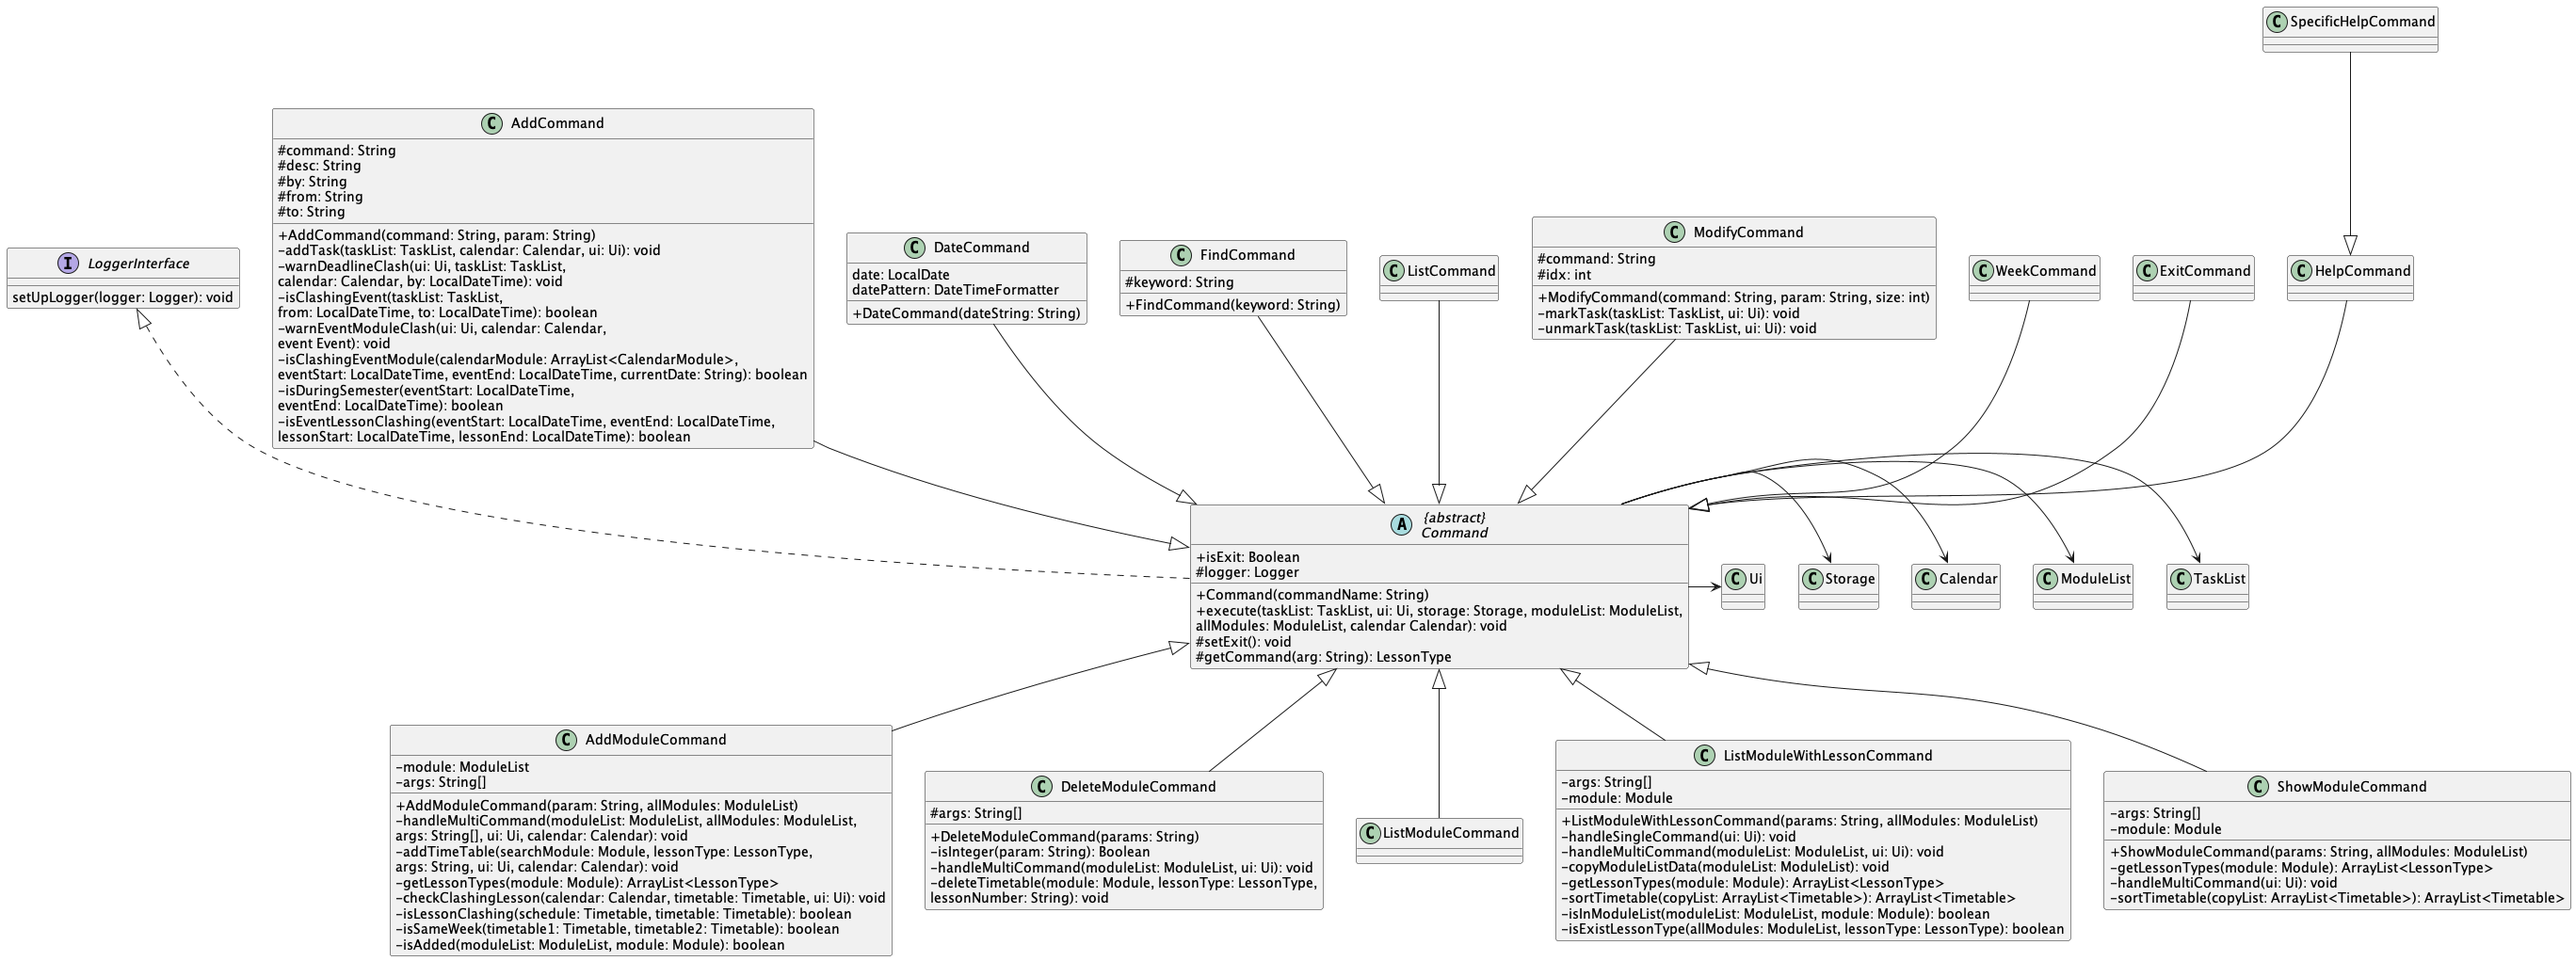
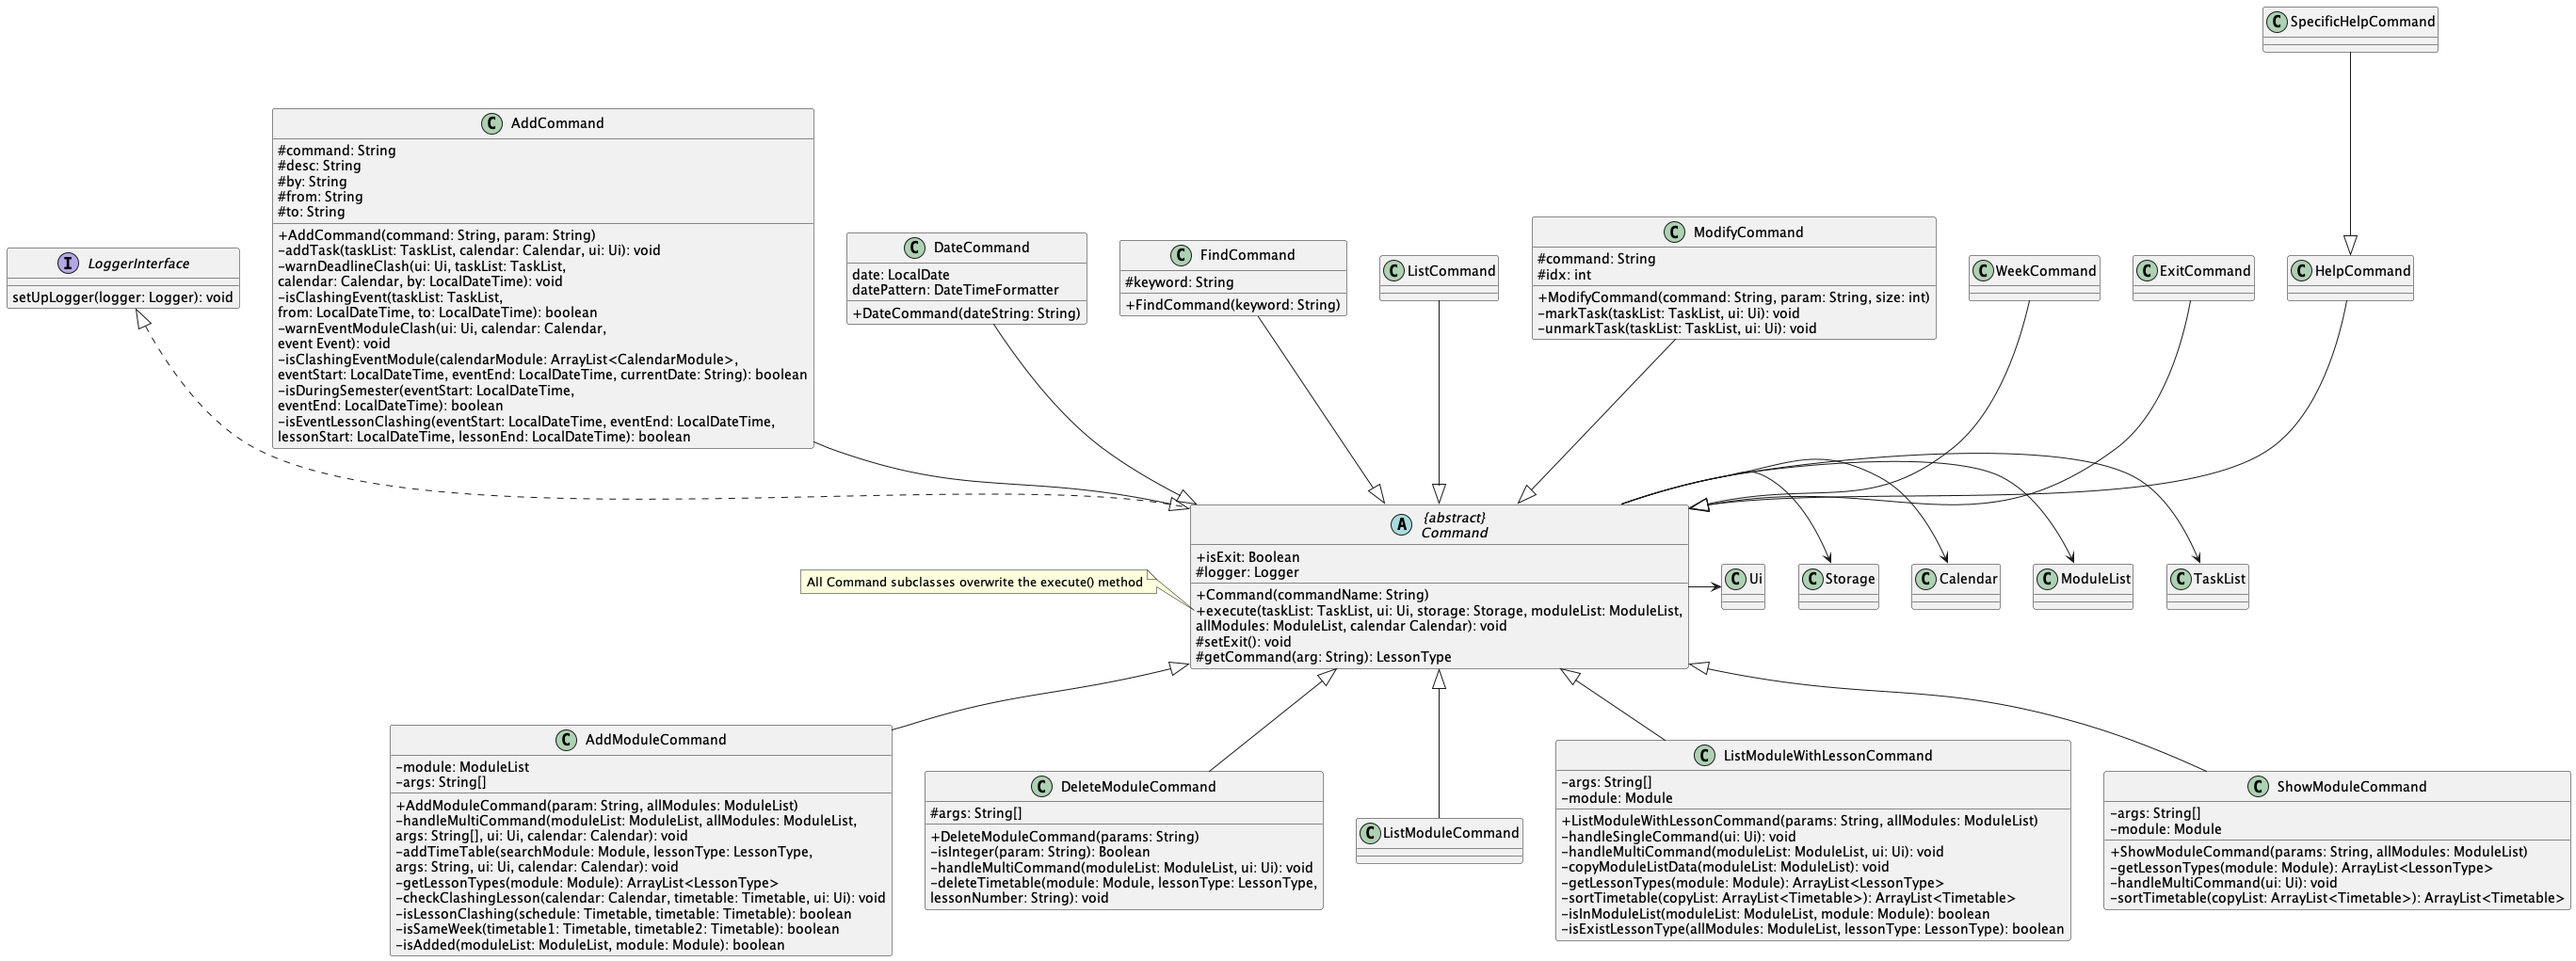
Neaten Command Class diagrams

Changed region(s): [[0.3107, 0.5769, 0.466, 0.6376], [0.3417, 0.4858, 0.4039, 0.5162], [0.4349, 0.668, 0.466, 0.6983]]

diff --git a/docs/DeveloperGuide.md b/docs/DeveloperGuide.md
@@ -63,9 +63,12 @@ which would result in the latest data stored in DataStorage being saved into the
 
 ### Command Component
 **API:** `Command.java`    
-Here's a class diagram of the `Command` component   
-![](https://github.com/AY2223S2-CS2113-T13-4/tp/blob/master/docs/uml-diagrams/Command.png?raw=true)
-> SpecificHelpCommand is a placeholder Class for all command-specific help commands (eg. `help addmod`)   
+Here's two class diagrams of the `Command` component, 
+one for Task and Util related Commands, and one for Module related Commands   
+![](https://github.com/AY2223S2-CS2113-T13-4/tp/blob/master/docs/uml-diagrams/Command-for_Task__Util_Commands.png.png?raw=true)
+> SpecificHelpCommand is a placeholder Class for all command-specific help commands (eg. `help addmod`)    
+
+![](https://github.com/AY2223S2-CS2113-T13-4/tp/blob/master/docs/uml-diagrams/Command2-for_Module_Commands.png?raw=true)
 
 How the `Command` component works:
 1. When a command is entered by the user, `Parser` will create the relevant subclass of `Command`. 
@@ -778,10 +781,6 @@ Below is a sequence diagram of the `bye` command.
 ![](https://github.com/AY2223S2-CS2113-T13-4/tp/blob/master/docs/uml-diagrams/ExitCommand-ExitCommand.png?raw=true)
 
 [*Return to TOC*](#table-of-contents)
-
-## *Storage*
-![](https://github.com/AY2223S2-CS2113-T13-4/tp/blob/master/docs/uml-diagrams/Storage.png?raw=true)
-
 
 ## *Logging*
 (TO BE ADDED SOON)
